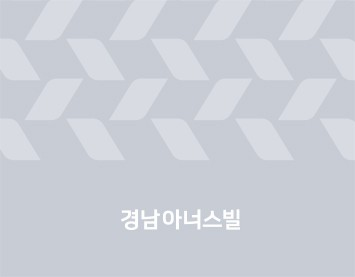
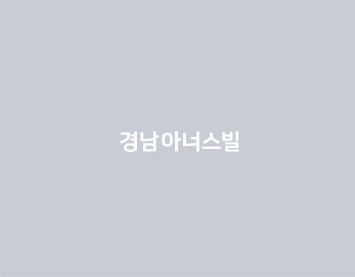
프로퍼티 디비 커넥션 차후 변경 필요(로드밸런싱 미적용)

Changed region(s): [[0.3408, 0.4621, 0.6817, 0.5487], [0.3408, 0.7509, 0.6817, 0.8375]]

diff --git a/brand/src/main/webapp/resources/css/main.css b/brand/src/main/webapp/resources/css/main.css
@@ -31,7 +31,7 @@
 .right_wrap .inner .title_wrap .small_txt span { position:absolute; bottom:0; left:20px; opacity:0; -webkit-transition: .3s ease-in-out; transition: .3s ease-in-out; -moz-transition: .3s ease-in-out; }
 .right_wrap .inner .title_wrap .small_txt span.on { left:0; opacity:1;}
 .right_wrap .inner .title_wrap .big_txt { font-size:40px; color:#000000; letter-spacing:-2.4px; font-weight:700; margin-top:10px; }
-.right_wrap .inner .title_wrap .big_txt_km { font-size:31px; color:#000000; letter-spacing:-2.4px; font-weight:700; margin-top:10px; }
+.right_wrap .inner .title_wrap .big_txt_km { font-size:27px; color:#000000; letter-spacing:-2.4px; font-weight:700; margin-top:10px; }
 .right_wrap .inner .title_wrap .big_txt > div { height:46px; line-height:1.2; position:relative; overflow:hidden; }
 .right_wrap .inner .title_wrap .big_txt > div span { position:absolute; bottom:-46px; left:0; -webkit-transition: .3s ease-in-out; transition: .3s ease-in-out; -moz-transition: .3s ease-in-out; }
 .right_wrap .inner .title_wrap .big_txt > div span.on { bottom:0; }
@@ -85,7 +85,8 @@
 #section02 .percel_wrap .percel_item .thumb {overflow:hidden; height:268px;}
 #section02 .percel_wrap .percel_item .thumb img { width:100%; height:100%; -webkit-transition: .7s ease-in-out; transition: .7s ease-in-out; -moz-transition: .7s ease-in-out; }
 #section02 .percel_wrap .percel_item:hover .thumb img { transform: scale(1.1); }
-#section02 .percel_wrap .percel_item .info { padding:65px 45px 120px 45px; position: relative; background:url(/resources/images/main/bg_main_pattern02.jpg) no-repeat bottom left ;min-height:170px; }
+/*#section02 .percel_wrap .percel_item .info { padding:65px 45px 120px 45px; position: relative; background:url(/resources/images/main/bg_main_pattern02.jpg) no-repeat bottom left ;min-height:170px; }*/
+#section02 .percel_wrap .percel_item .info { padding:65px 45px 120px 45px; position: relative; min-height:170px; }
 #section02 .percel_wrap .percel_item .info .flag { position:absolute; top:0; left:45px; }
 #section02 .percel_wrap .percel_item .info .schedule { position:absolute; top:0; right:20px; line-height:40px; color:#706142; }
 #section02 .percel_wrap .percel_item .info .percel_name { min-height:54px; font-weight:700; font-size:22px; line-height:1.25; width:210px; word-break:keep-all; } 

diff --git a/brand/src/main/webapp/resources/css/sub.css b/brand/src/main/webapp/resources/css/sub.css
@@ -150,13 +150,13 @@
 .bi .sec3 .color_wrap h4{margin-bottom:20px;}
 .bi .sec3 .color_box li{padding:20px 0 0 15px; color:#fff; line-height:20px; box-sizing:border-box;}
 .bi .sec3 .color_box{overflow:hidden;}
-.bi .sec3 .color_box .left{float:left; width:550px;}
+.bi .sec3 .color_box .left{float:left; width:825px;}
 .bi .sec3 .color_box .left li{height:268px; background-color:#004b6b;}
-.bi .sec3 .color_box .right{overflow:hidden; float:left; width:550px; height:268px;}
-.bi .sec3 .color_box .right li{float:left; width:275px; height:134px;}
+.bi .sec3 .color_box .right{overflow:hidden; float:left; width:275px; height:268px;}
+.bi .sec3 .color_box .right li{ width:275px; height:134px;}
 .bi .sec3 .color_box .right li:nth-child(1){background-color:#bab3ac;}
-.bi .sec3 .color_box .right li:nth-child(2){background-color:#706142;}
-.bi .sec3 .color_box .right li:nth-child(3){background-color:#626469;}
+.bi .sec3 .color_box .right li:nth-child(2){background-color:#626469;}
+.bi .sec3 .color_box .right li:nth-child(3){background-color:#706142;}
 .bi .sec3 .color_box .right li:nth-child(4){background-color:#9d3d3e;}
 .bi .sec3 p.txt{line-height:26px; letter-spacing:-.6px;}
 

diff --git a/brand/src/main/webapp/resources/mobile/css/sub.css b/brand/src/main/webapp/resources/mobile/css/sub.css
@@ -112,8 +112,8 @@
 .bi .sec3 .color_box .bottom{overflow:hidden; width:100%; height:100%;}
 .bi .sec3 .color_box .bottom li{float:left; width:50%; height:95px;}
 .bi .sec3 .color_box .bottom li:nth-child(1){background-color:#bab3ac;}
-.bi .sec3 .color_box .bottom li:nth-child(2){background-color:#706142;}
-.bi .sec3 .color_box .bottom li:nth-child(3){background-color:#626469;}
+.bi .sec3 .color_box .bottom li:nth-child(2){background-color:#626469;}
+.bi .sec3 .color_box .bottom li:nth-child(3){background-color:#706142;}
 .bi .sec3 .color_box .bottom li:nth-child(4){background-color:#9d3d3e;}
 .bi .sec3 p{line-height:1.5;}
 

diff --git a/brand/src/main/java/kr/co/honorsville/main/controller/MainController.java b/brand/src/main/java/kr/co/honorsville/main/controller/MainController.java
@@ -72,7 +72,6 @@ public class MainController {
         /* 팝업 정보 */
         popup.setStartIndex(0);
         popup.setCntPerPage(10);
-		
 		// 전체리스트 출력
 		List<FrontPopup> popupList = popupService.getPopupList(popup);        
         
